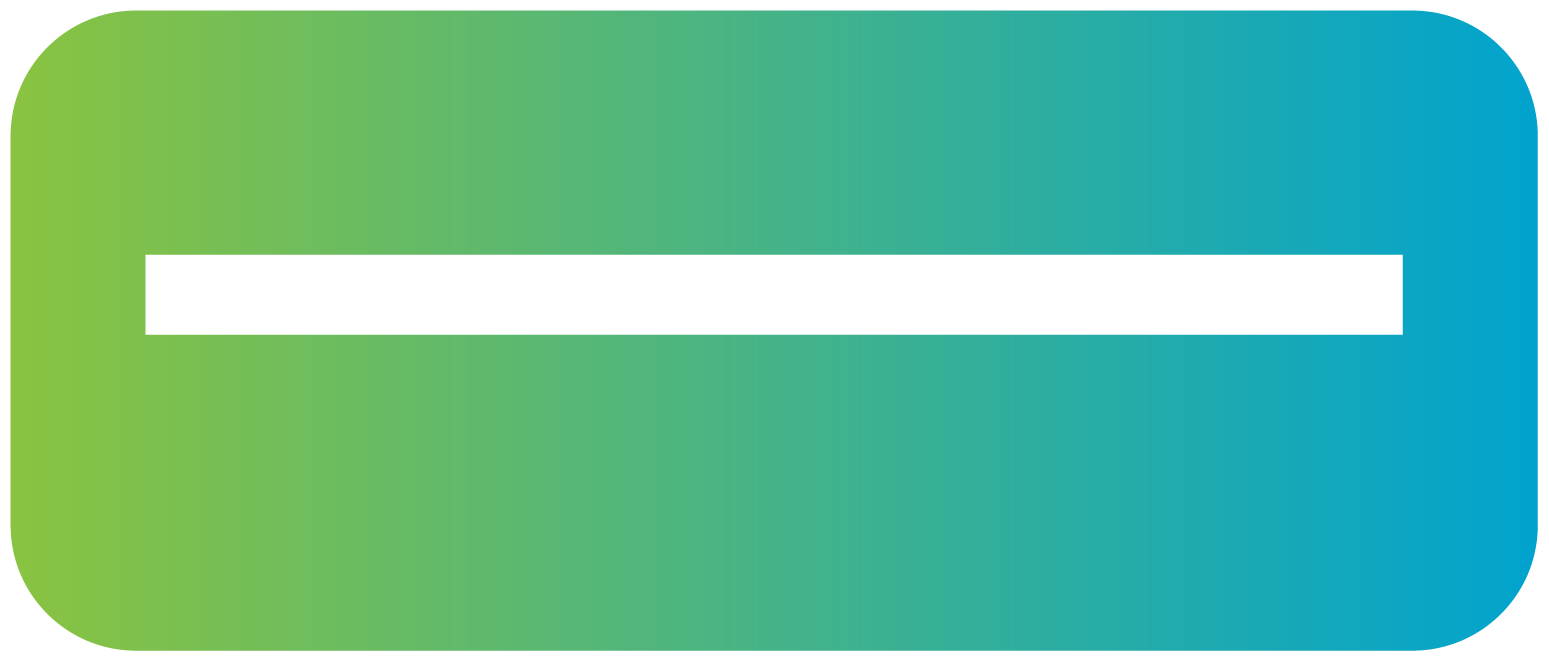
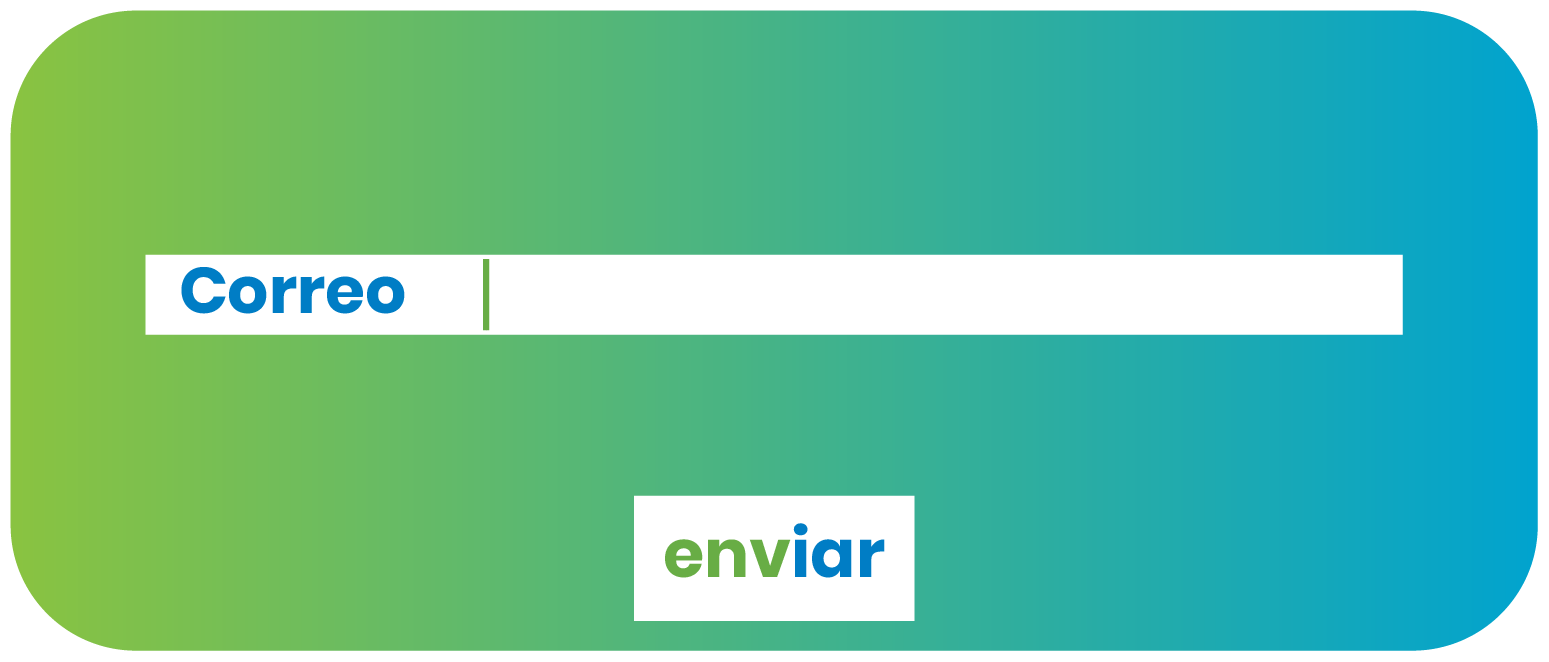
Text field size changed

Changed region(s): [[0.4028, 0.7251, 0.5888, 0.9366], [0.093, 0.3927, 0.2789, 0.4834], [0.3099, 0.3927, 0.3409, 0.4834]]

diff --git a/lib/screens/email_screen.dart b/lib/screens/email_screen.dart
@@ -35,8 +35,8 @@ class Email_Screen extends FlameGame with HasTappables{
         position: Vector2(0,0),
         size: Vector2(size[0], size[1]));
     box = ImageSprite(asset: 'box.png',
-        position: Vector2(size[0] * 0.52 ,size[1] * 0.3),
-        size: Vector2(size[0] * 0.45, size[1] * 0.35));
+        position: Vector2(size[0] * 0.47 ,size[1] * 0.24),
+        size: Vector2(size[0] * 0.51, size[1] * 0.4));
     box.opacity = 0;
     h_opacity_effect = OpacityEffect.to(0, EffectController(duration: 1, startDelay: 3));
     h_opacity_effect_new = OpacityEffect.to(1, EffectController(duration: 1, startDelay: 3));
